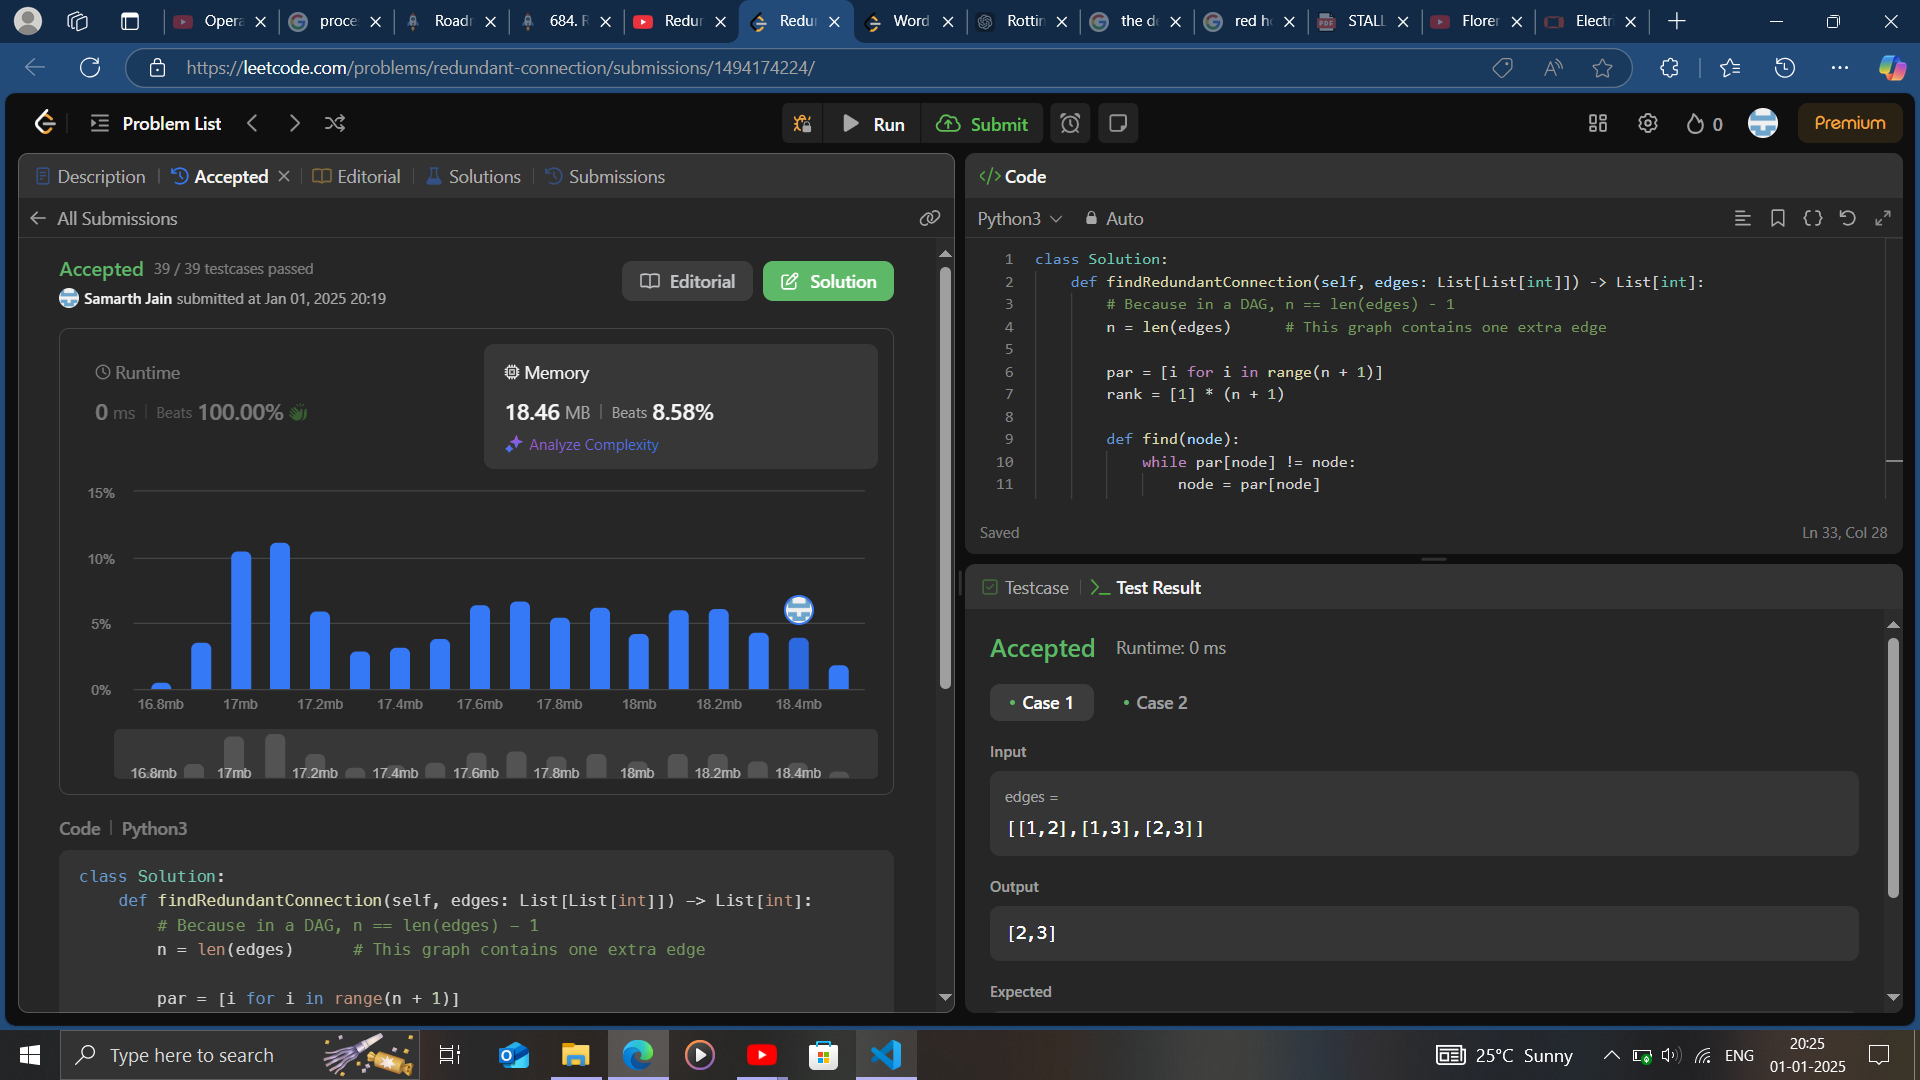
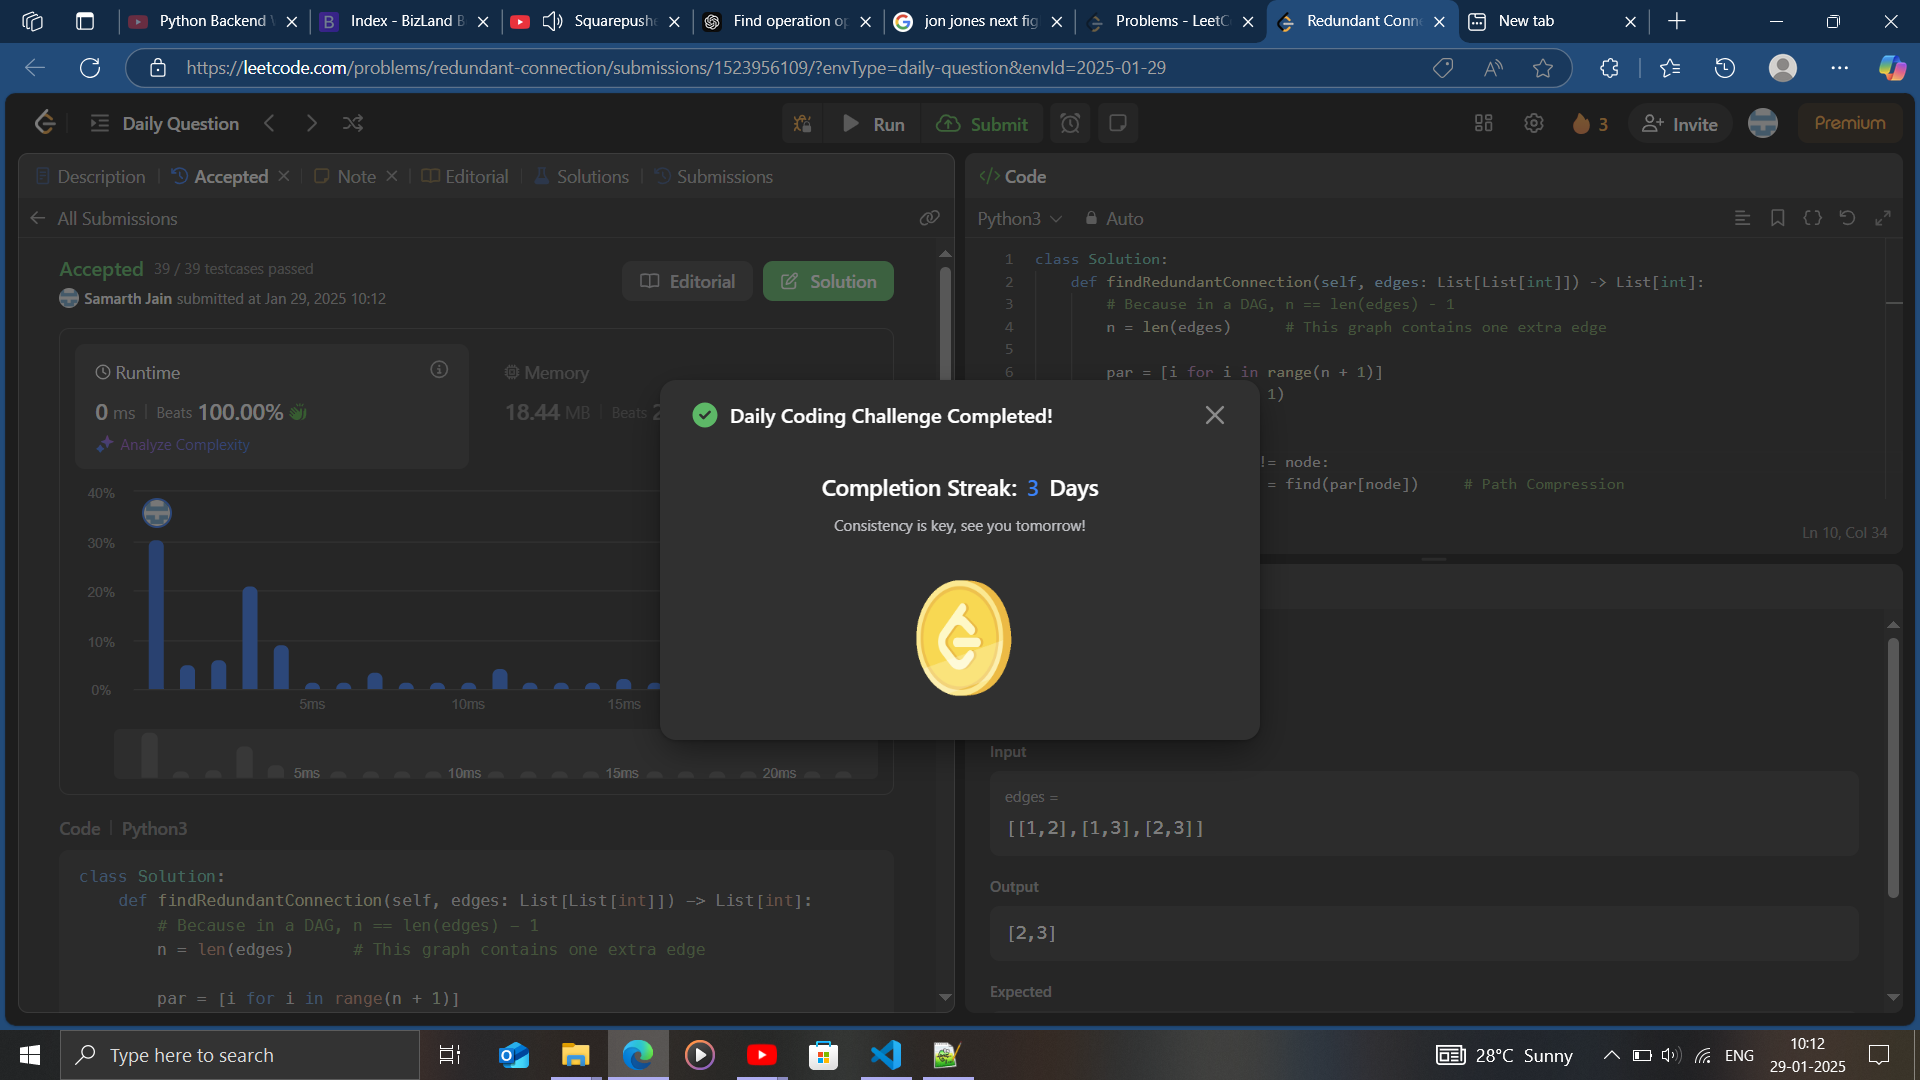
Leetcode-Solutions

diff --git a/Medium/[684] Redundant Connection/[684] Redundant Connection.py b/Medium/[684] Redundant Connection/[684] Redundant Connection.py
@@ -1,8 +1,8 @@
 """
 Accepted
 684 [Medium]
-Runtime: 6 ms, faster than 33.26% of Python3 online submissions for Redundant Connection.
-Memory Usage: 18.46 MB, less than 8.58% of Python3 online submissions for Redundant Connection.
+Runtime: 0 ms, faster than 100.00% of Python3 online submissions for Redundant Connection.
+Memory Usage: 18.44 MB, less than 22.29% of Python3 online submissions for Redundant Connection.
 """
 class Solution:
     def findRedundantConnection(self, edges: List[List[int]]) -> List[int]:
@@ -13,9 +13,9 @@ class Solution:
         rank = [1] * (n + 1)
 
         def find(node):
-            while par[node] != node:
-                node = par[node]
-            return node
+            if par[node] != node:
+                par[node] = find(par[node])     # Path Compression
+            return par[node]
 
         def union(n1, n2):
             p1, p2 = find(n1), find(n2)
